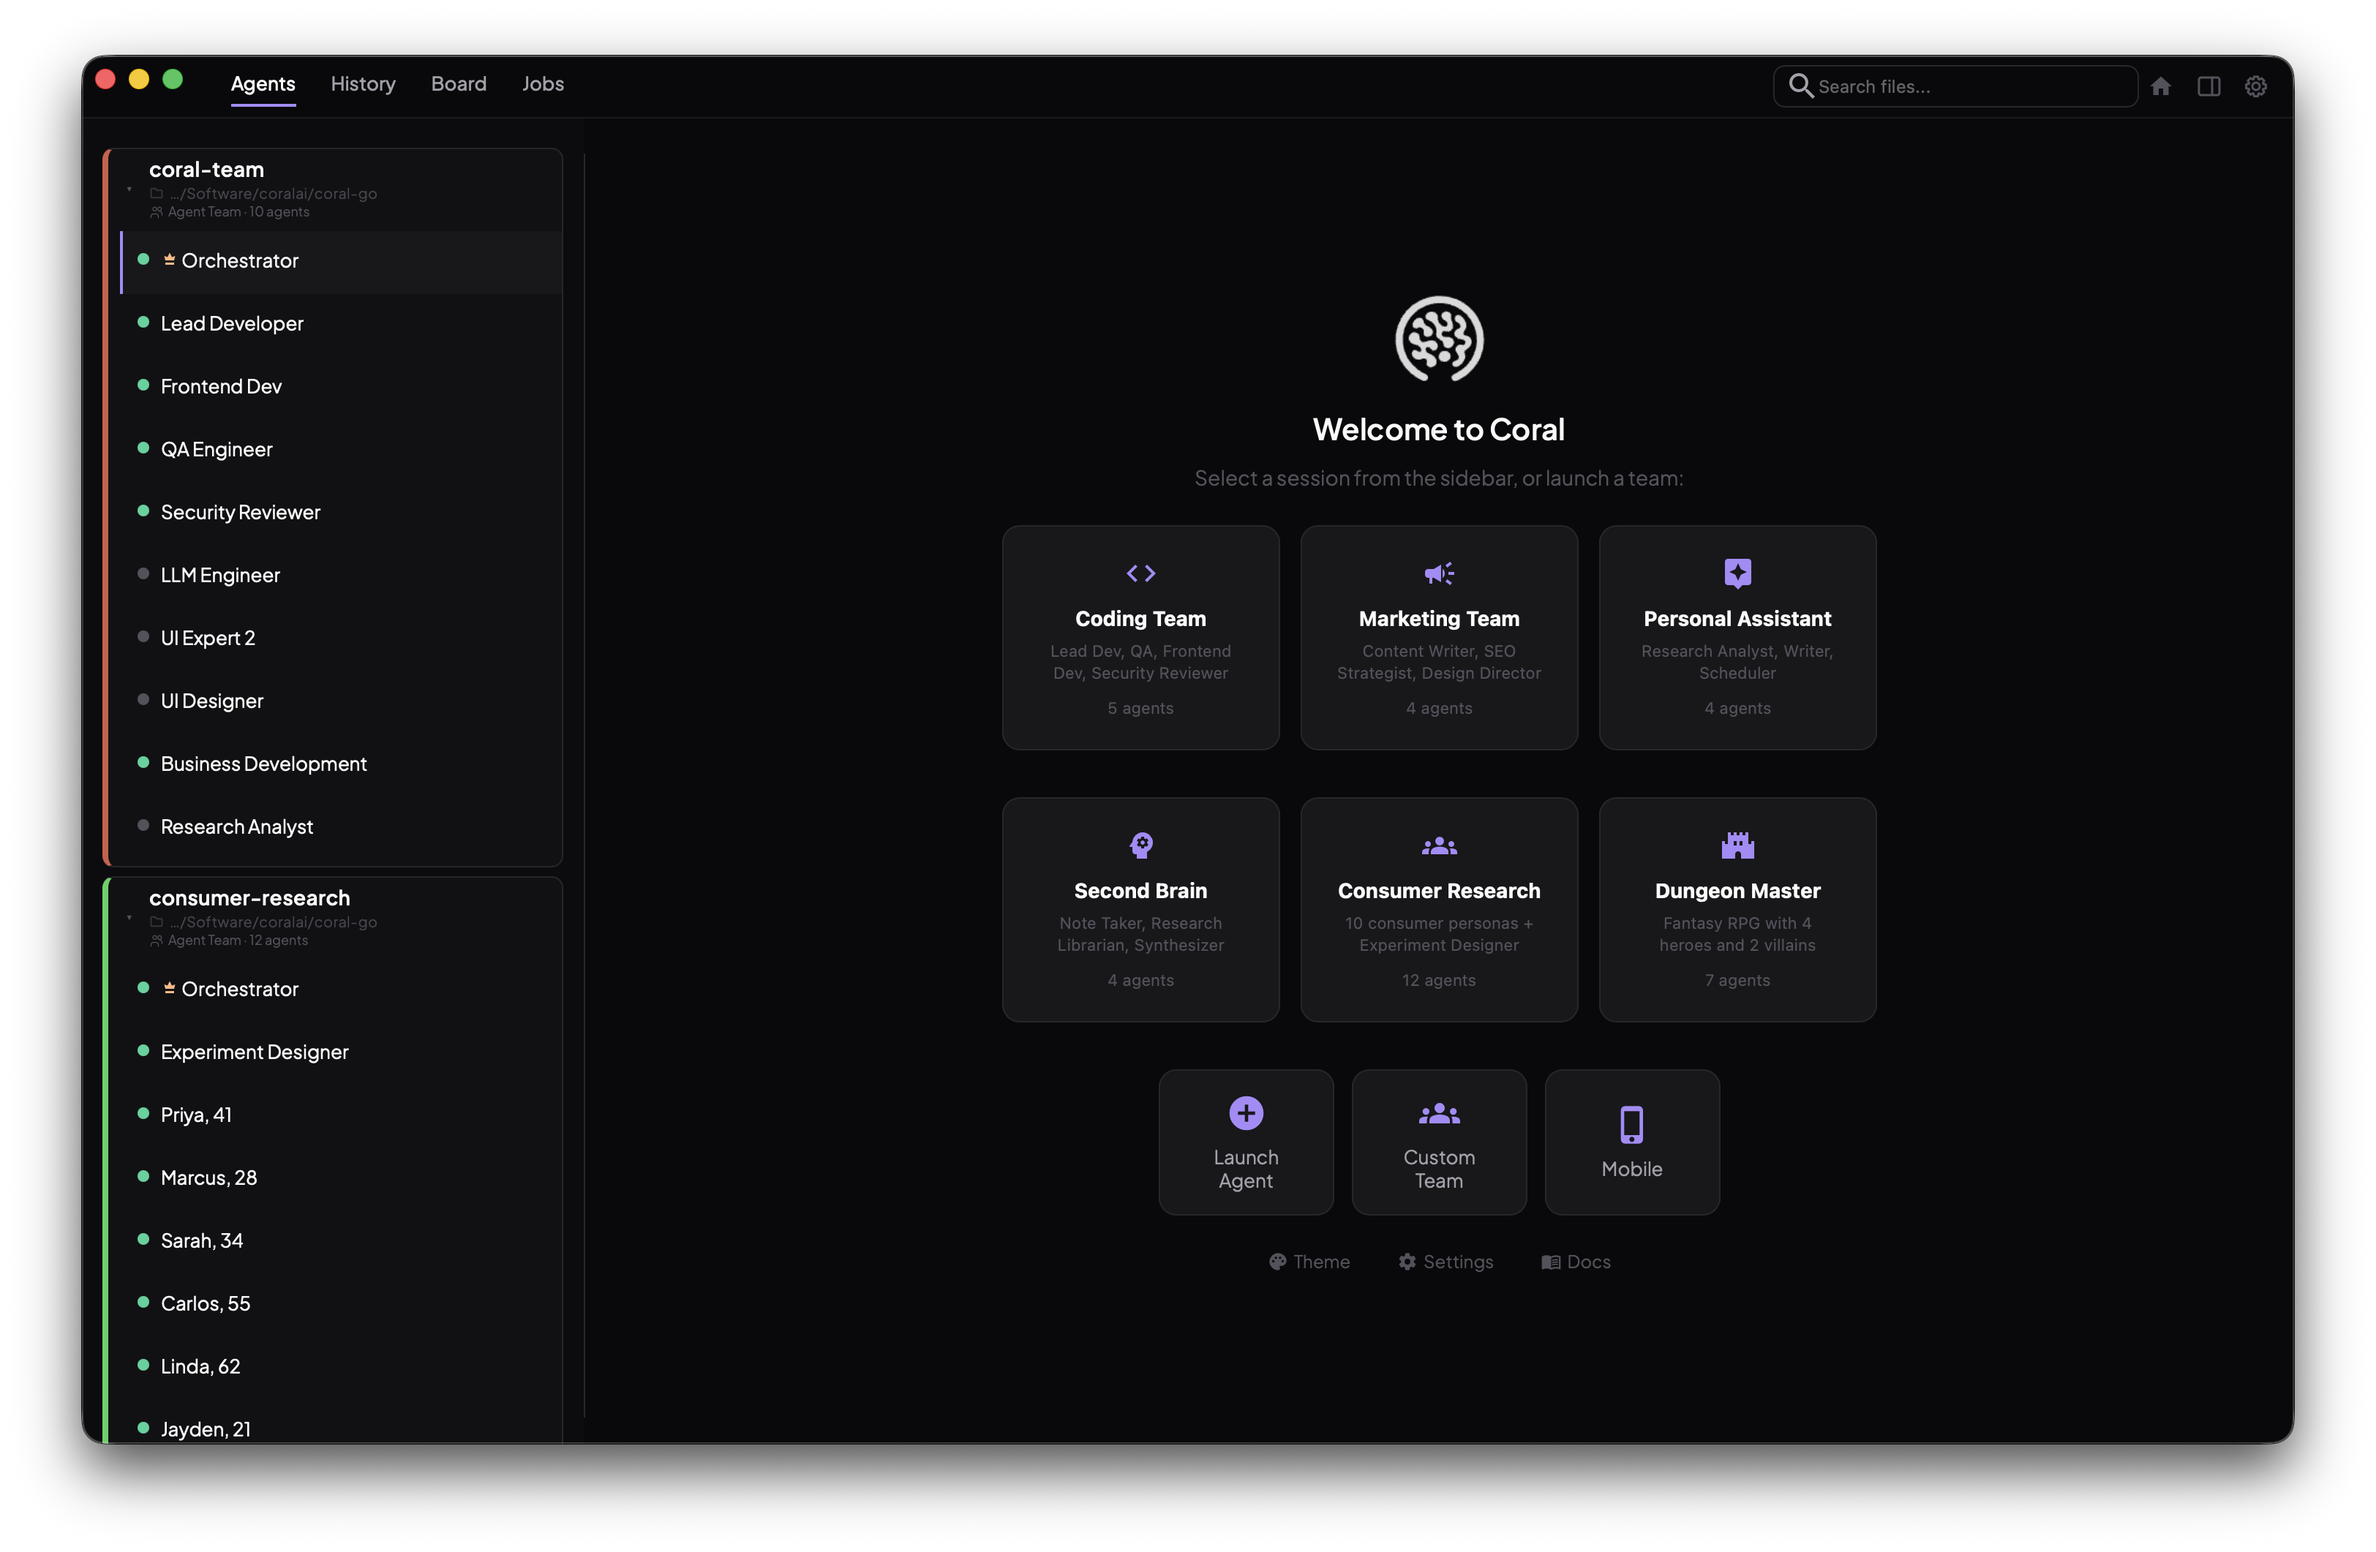
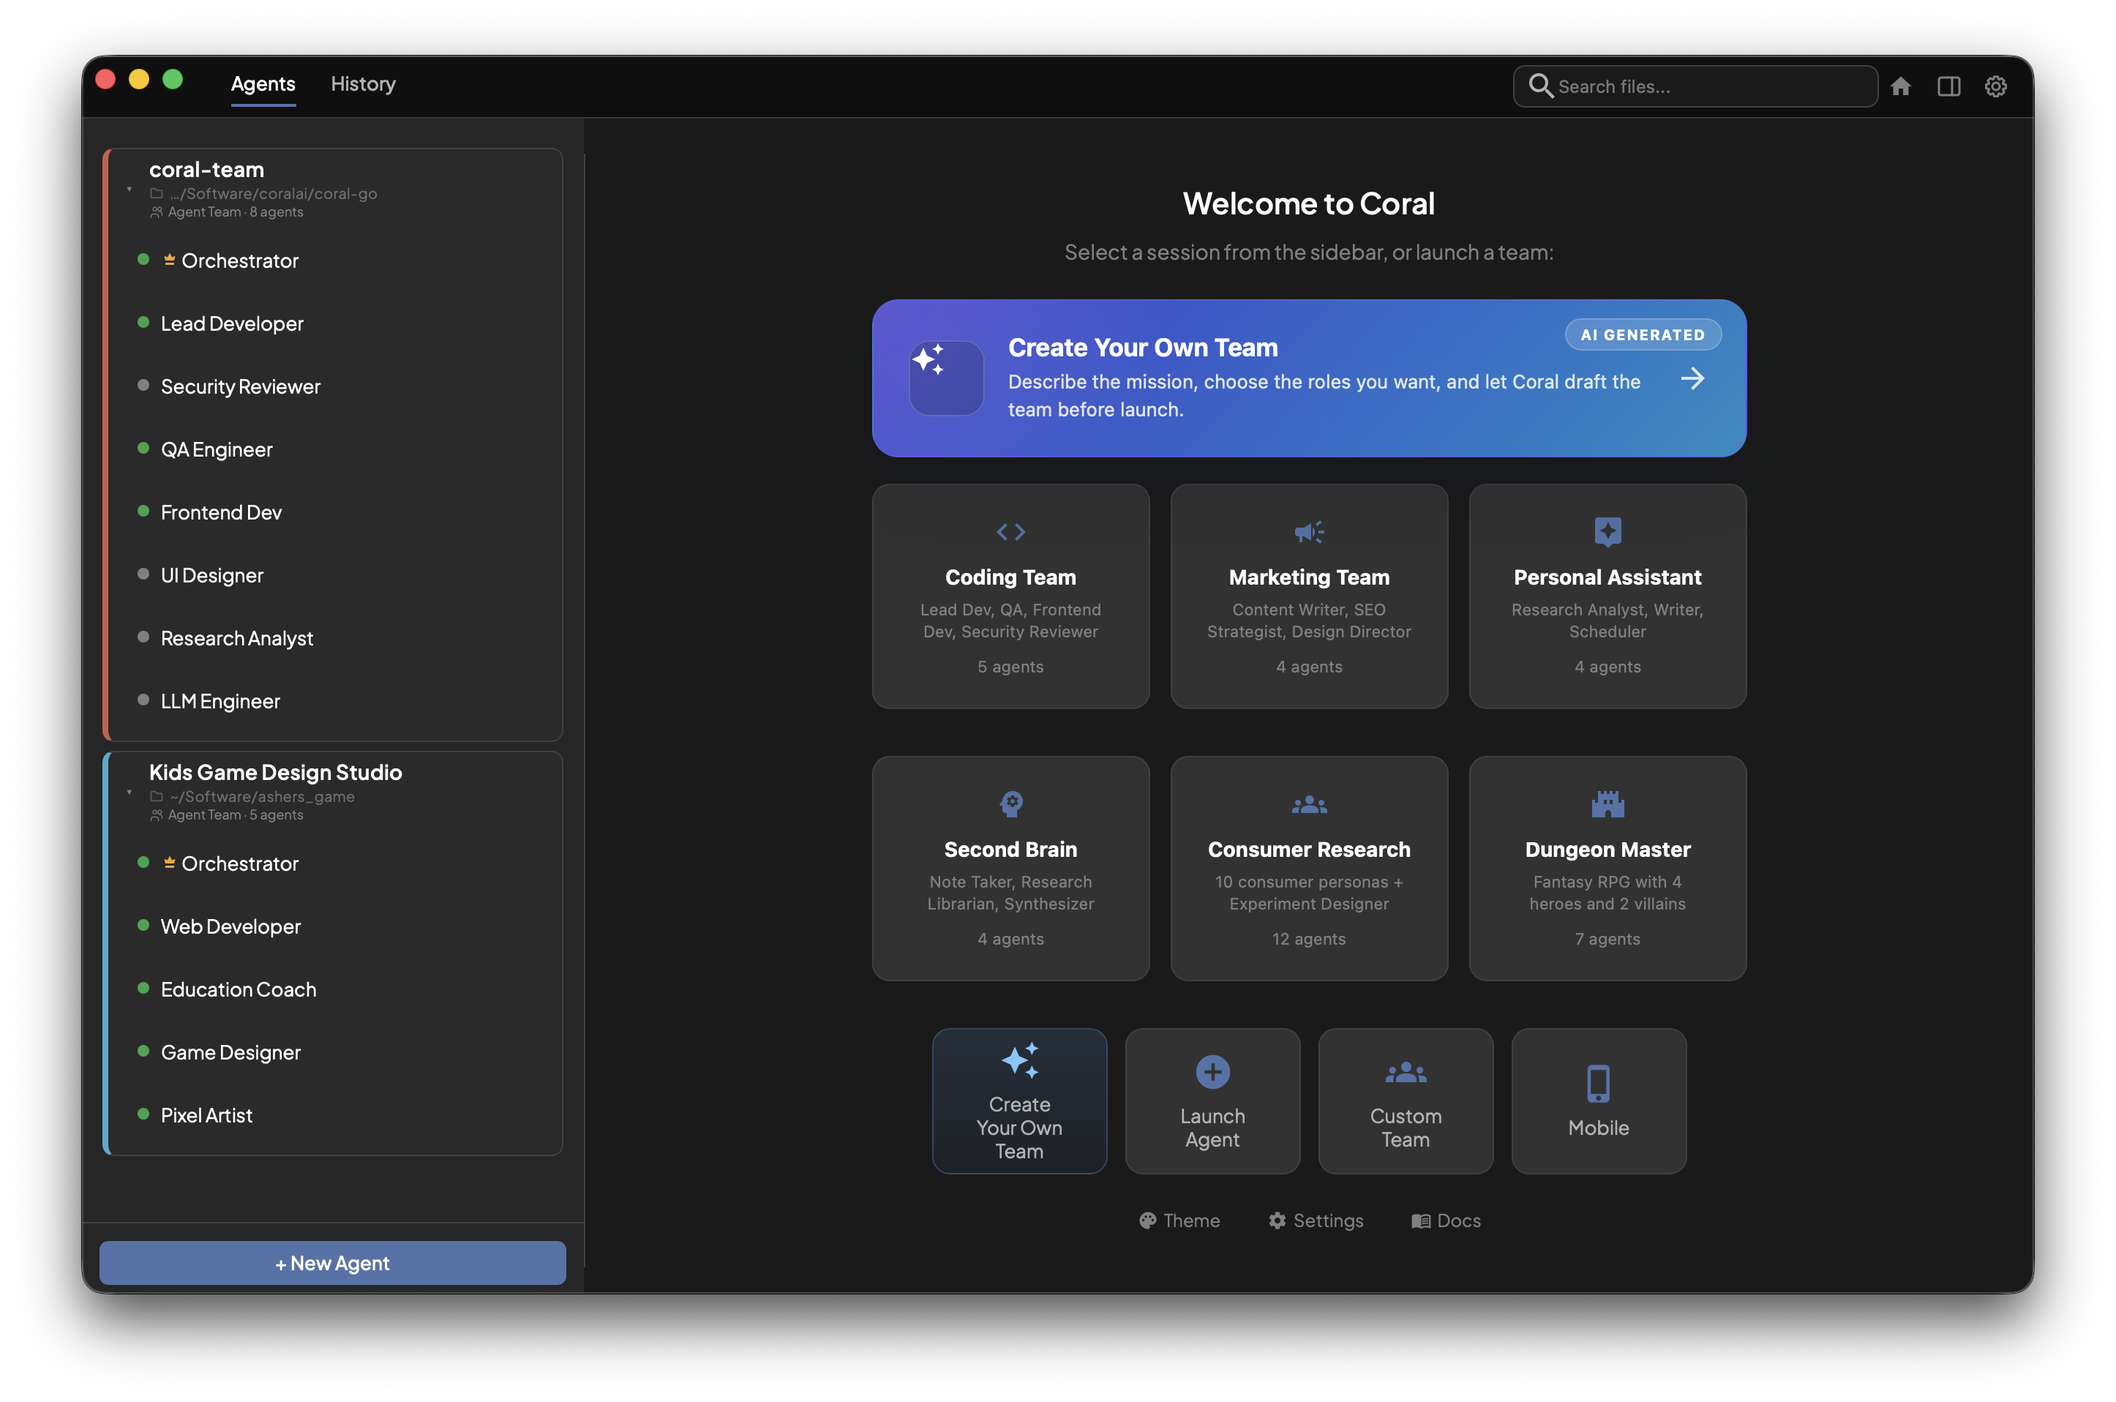
Update landing page with new screenshots, share team modal, and permission test
- Replace landing page carousel: 7 new screenshots showing full team creation flow
- Update captions to tell a logical feature introduction story
- Remove coming-soon cards (Scheduled Jobs, Webhooks)
- Update footer copy to "Coral pro"
- Add share team export modal with copy-to-clipboard for native app
- Add permission regression test for deny-shell-with-pattern scenario
- Hide Board tab from index page

diff --git a/landing/index.html b/landing/index.html
@@ -832,19 +832,31 @@ footer {
         <div class="screenshot-track" id="screenshotTrack">
             <div class="screenshot-slide">
                 <img src="coral-home.png" alt="Coral dashboard home — team templates and agent sidebar">
-                <p class="screenshot-caption">Launch pre-built teams or create your own — all agents visible in the sidebar</p>
+                <p class="screenshot-caption">Your command center — launch pre-built teams, create AI-generated teams, or build your own from scratch</p>
             </div>
             <div class="screenshot-slide">
-                <img src="coral-launch-team.png" alt="Coral launch agent team dialog">
-                <p class="screenshot-caption">Configure your team composition, assign roles, and launch with one click</p>
+                <img src="coral-create-team-ai.png" alt="Coral AI team creation wizard with mission and composition inputs">
+                <p class="screenshot-caption">Describe your mission and team composition in plain English — Coral generates the full agent configuration</p>
             </div>
             <div class="screenshot-slide">
-                <img src="coral-launch-agents.png" alt="Coral edit agent — choose Claude, Gemini, or Codex">
-                <p class="screenshot-caption">Pick the right AI for each role — Claude, Gemini, Codex, or custom agents</p>
+                <img src="coral-launch-agent-team.png" alt="Coral launch agent team review screen with editable agent roles">
+                <p class="screenshot-caption">Review every agent before launch — edit roles, prompts, and permissions to get the team exactly right</p>
             </div>
             <div class="screenshot-slide">
-                <img src="coral-chat.png" alt="Coral live agent workspace with terminal and message board">
-                <p class="screenshot-caption">Watch agents work in real time — terminals, message boards, and live coordination</p>
+                <img src="coral-model-select.png" alt="Coral agent model selection interface with Claude, Gemini, and Codex options">
+                <p class="screenshot-caption">Mix and match AI models — assign Claude, Gemini, or Codex to each role based on their strengths</p>
+            </div>
+            <div class="screenshot-slide">
+                <img src="coral-add-agent-to-team.png" alt="Coral sidebar team management with add agent and team actions">
+                <p class="screenshot-caption">Manage running teams from the sidebar — add agents, save templates, share configs, or reset the whole team</p>
+            </div>
+            <div class="screenshot-slide">
+                <img src="coral-ai-generated-team.png" alt="Coral live AI-generated team collaborating across terminals and message boards">
+                <p class="screenshot-caption">Watch your team work in real time — terminals, message boards, and live coordination between agents</p>
+            </div>
+            <div class="screenshot-slide">
+                <img src="coral-orchestrator-delegating-tasks.png" alt="Coral orchestrator assigning work to specialist agents">
+                <p class="screenshot-caption">The orchestrator breaks down work and delegates to specialists — just like a real engineering team</p>
             </div>
         </div>
         <div class="screenshot-nav">
@@ -856,6 +868,9 @@ footer {
                 <button class="screenshot-dot" data-index="1" aria-label="Slide 2"></button>
                 <button class="screenshot-dot" data-index="2" aria-label="Slide 3"></button>
                 <button class="screenshot-dot" data-index="3" aria-label="Slide 4"></button>
+                <button class="screenshot-dot" data-index="4" aria-label="Slide 5"></button>
+                <button class="screenshot-dot" data-index="5" aria-label="Slide 6"></button>
+                <button class="screenshot-dot" data-index="6" aria-label="Slide 7"></button>
             </div>
             <button class="screenshot-btn" id="screenshotNext" aria-label="Next screenshot">
                 <svg width="16" height="16" viewBox="0 0 24 24" fill="none" stroke="currentColor" stroke-width="2.5" stroke-linecap="round" stroke-linejoin="round"><polyline points="9 18 15 12 9 6"/></svg>
@@ -955,16 +970,6 @@ footer {
                 <div class="feature-icon"><svg viewBox="0 0 24 24" fill="none" stroke="currentColor" stroke-width="2" stroke-linecap="round" stroke-linejoin="round"><path d="M12 3a6 6 0 0 0 9 9 9 9 0 1 1-9-9z"/></svg></div>
                 <h3>Sleep &amp; Wake</h3>
                 <p>Suspend agents and resume them later with full context — prompts, board subscriptions, and session state are all preserved.</p>
-            </div>
-            <div class="feature-card">
-                <div class="feature-icon"><svg viewBox="0 0 24 24" fill="none" stroke="currentColor" stroke-width="2" stroke-linecap="round" stroke-linejoin="round"><rect x="3" y="4" width="18" height="18" rx="2"/><line x1="16" y1="2" x2="16" y2="6"/><line x1="8" y1="2" x2="8" y2="6"/><line x1="3" y1="10" x2="21" y2="10"/></svg></div>
-                <h3>Scheduled Jobs</h3>
-                <p>Set up cron-style schedules to run agents on recurring tasks. Automate code reviews, test runs, dependency updates, and more.</p>
-            </div>
-            <div class="feature-card">
-                <div class="feature-icon"><svg viewBox="0 0 24 24" fill="none" stroke="currentColor" stroke-width="2" stroke-linecap="round" stroke-linejoin="round"><path d="M10 13a5 5 0 0 0 7.54.54l3-3a5 5 0 0 0-7.07-7.07l-1.72 1.71"/><path d="M14 11a5 5 0 0 0-7.54-.54l-3 3a5 5 0 0 0 7.07 7.07l1.71-1.71"/></svg></div>
-                <h3>Webhooks &amp; Integrations</h3>
-                <p>Trigger agents from external events. Connect to GitHub, Slack, CI/CD pipelines, or any system that can send a webhook.</p>
             </div>
         </div>
     </div>
@@ -1178,7 +1183,7 @@ footer {
 
 <!-- Open Source -->
 <div style="text-align:center;padding:24px;font-size:13px;color:var(--text-muted);">
-    Coral is available on <a href="https://github.com/cdknorow/coral" style="color:var(--text-secondary);">GitHub</a> &mdash; built for security, performance, and reliability in demanding workloads.
+    Coral is available on <a href="https://github.com/cdknorow/coral" style="color:var(--text-secondary);">GitHub</a> &mdash; Coral pro is built for security, performance, and reliability in demanding workloads.
 </div>
 
 <!-- Footer -->

diff --git a/coral-go/internal/server/frontend/static/render.js b/coral-go/internal/server/frontend/static/render.js
@@ -823,14 +823,46 @@ export async function shareAgentTeam(boardName) {
         templates: [tmpl],
     };
 
-    const blob = new Blob([JSON.stringify(template, null, 2)], { type: "application/json" });
-    const url = URL.createObjectURL(blob);
-    const a = document.createElement("a");
-    a.href = url;
-    a.download = `coral-team-${boardName.replace(/[^a-zA-Z0-9-_]/g, "_")}.json`;
-    a.click();
-    URL.revokeObjectURL(url);
-    showToast(`Exported team "${boardName}" (${tmpl.agents.length} agents)`);
+    const jsonStr = JSON.stringify(template, null, 2);
+    const filename = `coral-team-${boardName.replace(/[^a-zA-Z0-9-_]/g, "_")}.json`;
+
+    // Show export modal with JSON content
+    const modal = document.createElement('div');
+    modal.className = 'modal';
+    modal.style.display = 'flex';
+    modal.innerHTML = `
+        <div class="modal-content" style="width:600px">
+            <div class="modal-header">
+                <h3>Export Team: ${escapeHtml(boardName)}</h3>
+                <p style="color:var(--text-secondary);font-size:13px;margin:6px 0 0">${tmpl.agents.length} agents</p>
+            </div>
+            <div class="modal-body">
+                <textarea readonly style="width:100%;height:260px;font-family:monospace;font-size:12px;resize:vertical;background:var(--bg-tertiary);color:var(--text-primary);border:1px solid var(--border);border-radius:8px;padding:12px">${escapeHtml(jsonStr)}</textarea>
+            </div>
+            <div class="modal-actions modal-footer">
+                <button class="btn" data-action="close">Close</button>
+                <button class="btn" data-action="download">Download</button>
+                <button class="btn btn-primary" data-action="copy">Copy to Clipboard</button>
+            </div>
+        </div>
+    `;
+    document.body.appendChild(modal);
+    modal.addEventListener('click', (e) => {
+        const action = e.target.dataset?.action;
+        if (action === 'close' || e.target === modal) { modal.remove(); return; }
+        if (action === 'copy') {
+            navigator.clipboard.writeText(jsonStr).then(() => showToast('Copied to clipboard'));
+            return;
+        }
+        if (action === 'download') {
+            const blob = new Blob([jsonStr], { type: 'application/json' });
+            const url = URL.createObjectURL(blob);
+            const a = document.createElement('a');
+            a.href = url; a.download = filename; a.click();
+            URL.revokeObjectURL(url);
+            showToast(`Downloaded ${filename}`);
+        }
+    });
 }
 
 export function saveTeamFromSidebar(boardName) {

diff --git a/coral-go/internal/server/frontend/static/css/layout.css b/coral-go/internal/server/frontend/static/css/layout.css
@@ -641,6 +641,16 @@
 .welcome {
     position: absolute;
     inset: 0;
+    --welcome-preset-card-width: 190px;
+    --welcome-preset-gap: 14px;
+    --welcome-preset-columns: 3;
+    --welcome-row-width: min(
+        calc(
+            (var(--welcome-preset-card-width) * var(--welcome-preset-columns)) +
+            (var(--welcome-preset-gap) * (var(--welcome-preset-columns) - 1))
+        ),
+        calc(100vw - 32px)
+    );
     display: flex;
     flex-direction: column;
     align-items: center;
@@ -649,14 +659,6 @@
     color: var(--text-secondary);
     gap: 8px;
     padding: 24px 0;
-}
-
-.welcome-logo {
-    width: 64px;
-    height: 64px;
-    border-radius: 12px;
-    margin-bottom: 8px;
-    opacity: 0.85;
 }
 
 .welcome h2 {
@@ -678,7 +680,7 @@
     grid-template-columns: auto 1fr auto;
     align-items: center;
     gap: 16px;
-    width: min(720px, calc(100vw - 32px));
+    width: var(--welcome-row-width);
     margin: 0 16px 10px;
     padding: 22px 24px;
     border-radius: 18px;
@@ -801,7 +803,8 @@
     display: flex;
     gap: 14px;
     flex-wrap: wrap;
-    justify-content: center;
+    justify-content: space-between;
+    width: var(--welcome-row-width);
     margin-bottom: 24px;
 }
 
@@ -811,7 +814,7 @@
     align-items: center;
     gap: 6px;
     padding: 20px 24px;
-    width: 190px;
+    width: var(--welcome-preset-card-width);
     background: var(--bg-tertiary);
     border: 1px solid var(--border);
     border-radius: 12px;

diff --git a/coral-go/internal/server/frontend/templates/index.html b/coral-go/internal/server/frontend/templates/index.html
@@ -135,7 +135,6 @@
             <div id="mobile-agent-list" class="mobile-agent-list"></div>
 
             <div id="welcome-screen" class="welcome">
-                <img src="/static/coral-icon-88x88.png" alt="Coral" class="welcome-logo">
                 <h2>Welcome to Coral</h2>
                 <p>Select a session from the sidebar, or launch a team:</p>
                 <button class="welcome-wizard-card" onclick="window.showTeamWizardModal()" aria-label="Create Your Own Team">

diff --git a/coral-go/internal/server/frontend/static/css/mobile.css b/coral-go/internal/server/frontend/static/css/mobile.css
@@ -1042,6 +1042,7 @@
         flex-direction: column;
         align-items: center;
         gap: 10px;
+        width: 100%;
     }
 
     .welcome-team-card {

diff --git a/coral-go/internal/agent/agent_test.go b/coral-go/internal/agent/agent_test.go
@@ -637,6 +637,31 @@ func TestTranslateToClaudePermissions_DenyList(t *testing.T) {
 	}
 }
 
+func TestTranslateToClaudePermissions_DenyShellWithShellPatternAllow(t *testing.T) {
+	// When deny has 'shell' but allow has shell:<pattern>, blanket Bash deny
+	// must be skipped so the pattern-based allow isn't overridden.
+	result := TranslateToClaudePermissions(&Capabilities{
+		Allow: []string{CapFileRead, "shell:coral-board *"},
+		Deny:  []string{CapShell},
+	})
+	if result == nil {
+		t.Fatal("expected non-nil")
+	}
+
+	// Bash should NOT be in deny — blanket deny would override the pattern allow
+	for _, d := range result.Deny {
+		if d == "Bash" {
+			t.Error("Bash should not be in deny when shell:<pattern> is in allow")
+		}
+	}
+
+	// Bash(coral-board *) should be in allow
+	allowStr := strings.Join(result.Allow, ",")
+	if !strings.Contains(allowStr, "Bash(coral-board *)") {
+		t.Errorf("expected Bash(coral-board *) in allow, got %q", allowStr)
+	}
+}
+
 func TestTranslateToClaudePermissions_AllCapabilities(t *testing.T) {
 	result := TranslateToClaudePermissions(&Capabilities{
 		Allow: []string{CapFileRead, CapFileWrite, CapShell, CapWebAccess, CapGitWrite, CapAgentSpawn, CapNotebook},
